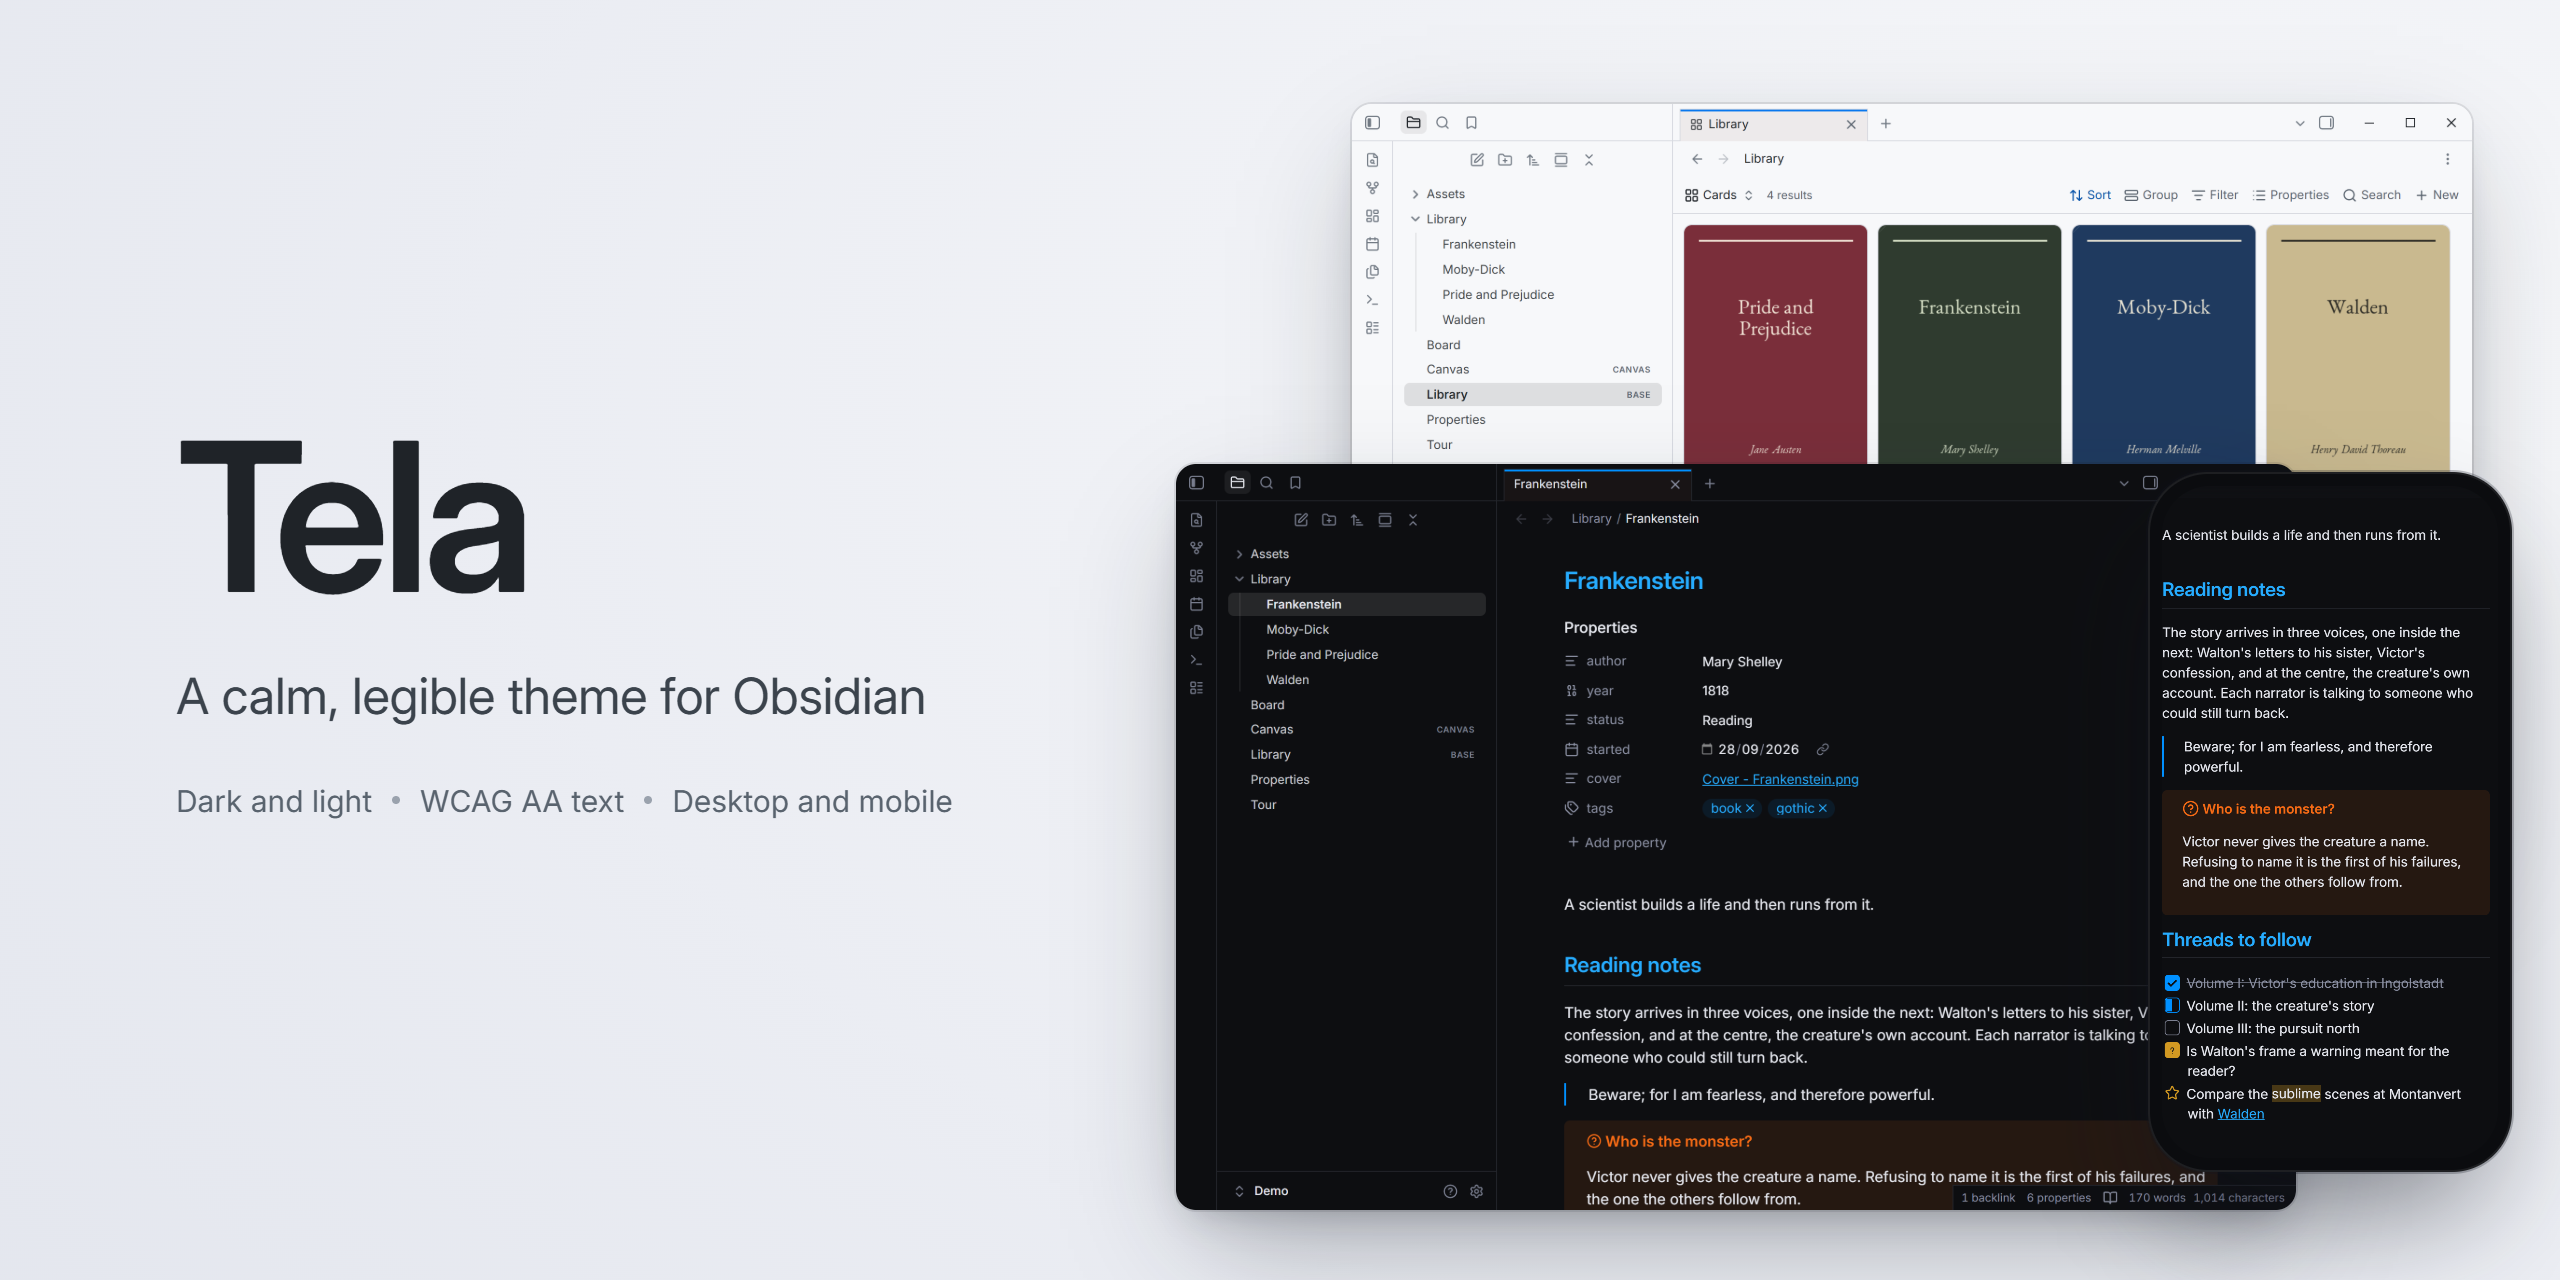
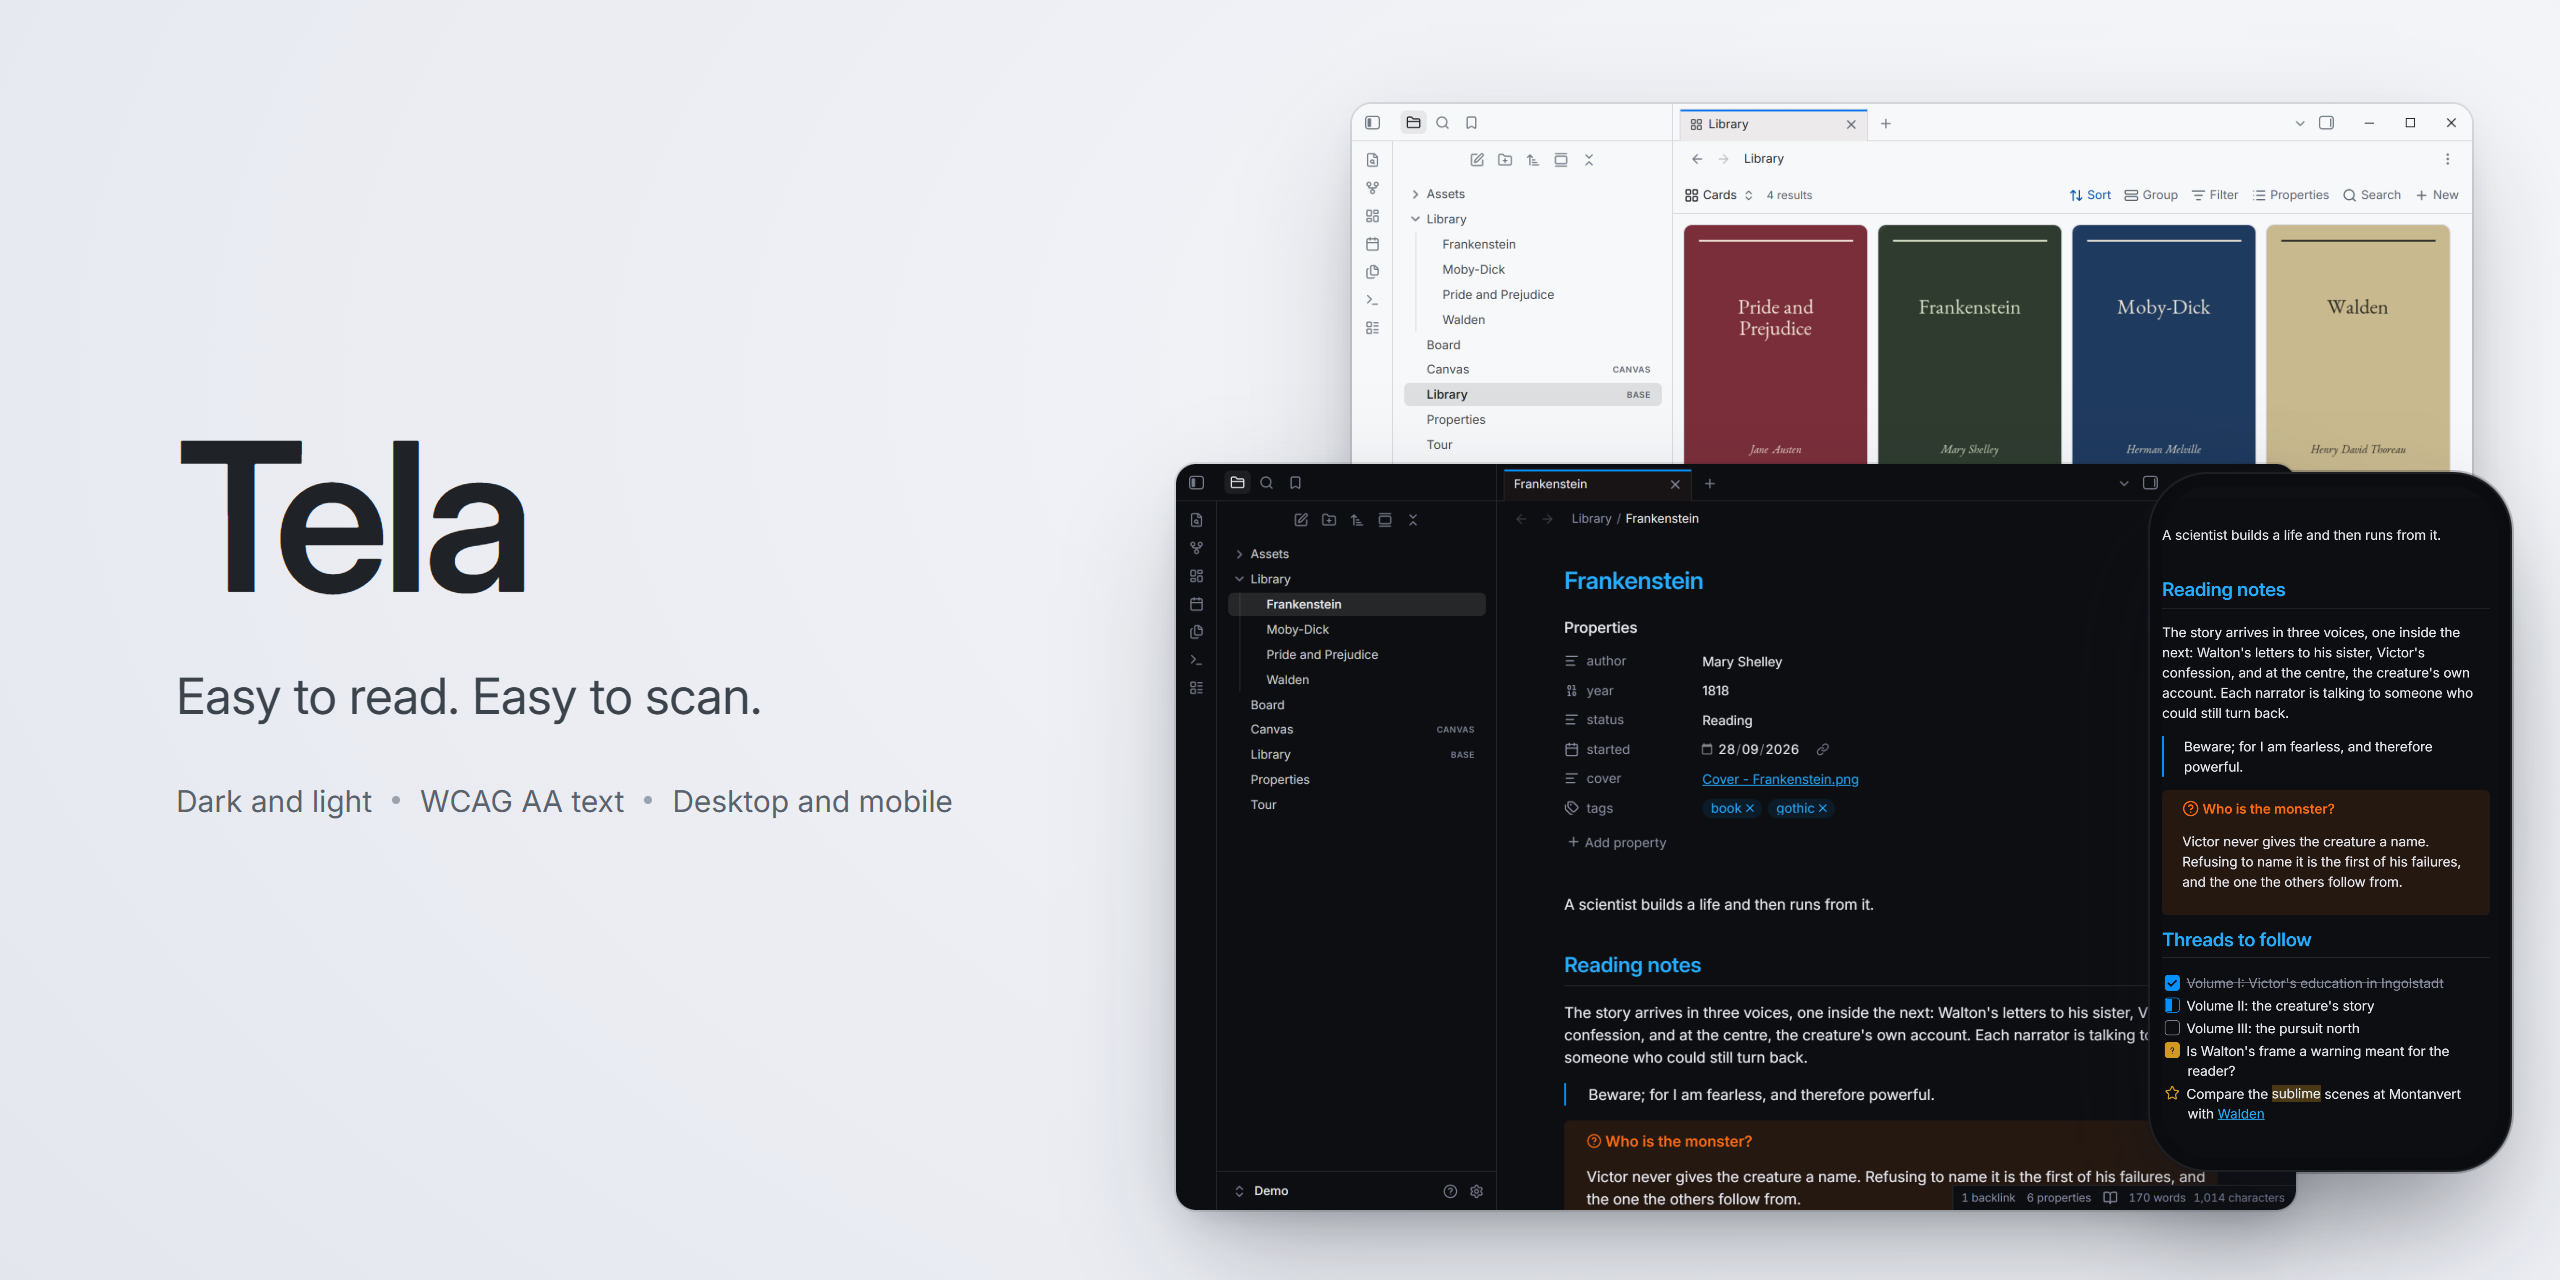
docs: lead with "easy to read, easy to scan" (#12)
The cover tagline, README and package description replace "calm, legible".
The theme isn't calm, and users call themes readable, not legible.

Changed region(s): [[0.0625, 0.5312, 0.375, 0.5625]]

diff --git a/scripts/shots-cover.html b/scripts/shots-cover.html
@@ -42,7 +42,7 @@
 <div class="cover">
 	<div class="title">
 		<h1>Tela</h1>
-		<div class="tagline">A calm, legible theme for Obsidian</div>
+		<div class="tagline">Easy to read. Easy to scan.</div>
 		<div class="facts">Dark and light<i></i>WCAG AA text<i></i>Desktop and mobile</div>
 	</div>
 	<div class="window light"><img src="{{light}}" alt=""></div>

diff --git a/README.md b/README.md
@@ -1,4 +1,4 @@
-<img src="assets/cover.webp" alt="Tela, a calm, legible theme for Obsidian: a reading note in dark mode, the Library's book covers in light mode, and the same note on a phone">
+<img src="assets/cover.webp" alt="Tela, an Obsidian theme that is easy to read and easy to scan: a reading note in dark mode, the Library's book covers in light mode, and the same note on a phone">
 
 An Obsidian theme inspired by the style guide of the Tela app. It supports dark and light
 mode, on desktop, phone and tablet.
@@ -28,12 +28,12 @@ Work in progress: not yet in the community directory.
 
 ## Why Tela
 
-- **Calm, legible and ready as installed.** One quiet surface for sidebars, tabs and
-  notes, hairline borders, and nothing to set up.
-- **Readable text.** Every text colour clears WCAG AA (4.5:1) in dark and light
-  mode, on desktop, phone and tablet. An
-  [automated contrast audit](CONTRIBUTING.md#qa) of notes, Canvas, Bases, search,
-  menus and settings checks this before each release.
+- **Easy to read, easy to scan.** Every text colour clears WCAG AA (4.5:1) in dark and
+  light mode, on desktop, phone and tablet, and headings step down by colour as well as
+  size. An [automated contrast audit](CONTRIBUTING.md#qa) of notes, Canvas, Bases,
+  search, menus and settings checks this before each release.
+- **Ready as installed.** One quiet surface for sidebars, tabs and notes, hairline
+  borders, and nothing to set up.
 - **Built to survive Obsidian updates.** The theme works through Obsidian's own variables
   rather than fragile selectors, and a [weekly check](CONTRIBUTING.md#obsidian-updates)
   tests each new Obsidian release for changes that would break it.

diff --git a/CHANGELOG.md b/CHANGELOG.md
@@ -2,6 +2,12 @@
 
 ## Unreleased
 
+### 2026-10-09: "easy to read, easy to scan"
+
+- The cover tagline, README and package description lead with "easy to read, easy to scan" instead of "calm, legible". The theme isn't calm (accent headings, tinted bold, coloured callouts), and users say "readable" about themes but "legible" only about fonts. "Scan" names what the heading change is for.
+- The README's first two "Why Tela" points are merged into one about reading and scanning, followed by "Ready as installed".
+- Regenerated the cover.
+
 ### 2026-10-09: a thumbnail for the theme browser
 
 - `npm run shots` also writes `assets/screenshot.png`, the 512×288 thumbnail Obsidian's theme browser shows: a 1024×576 window on the dark note, captured at 2x and scaled down. The submission form asks for it.
